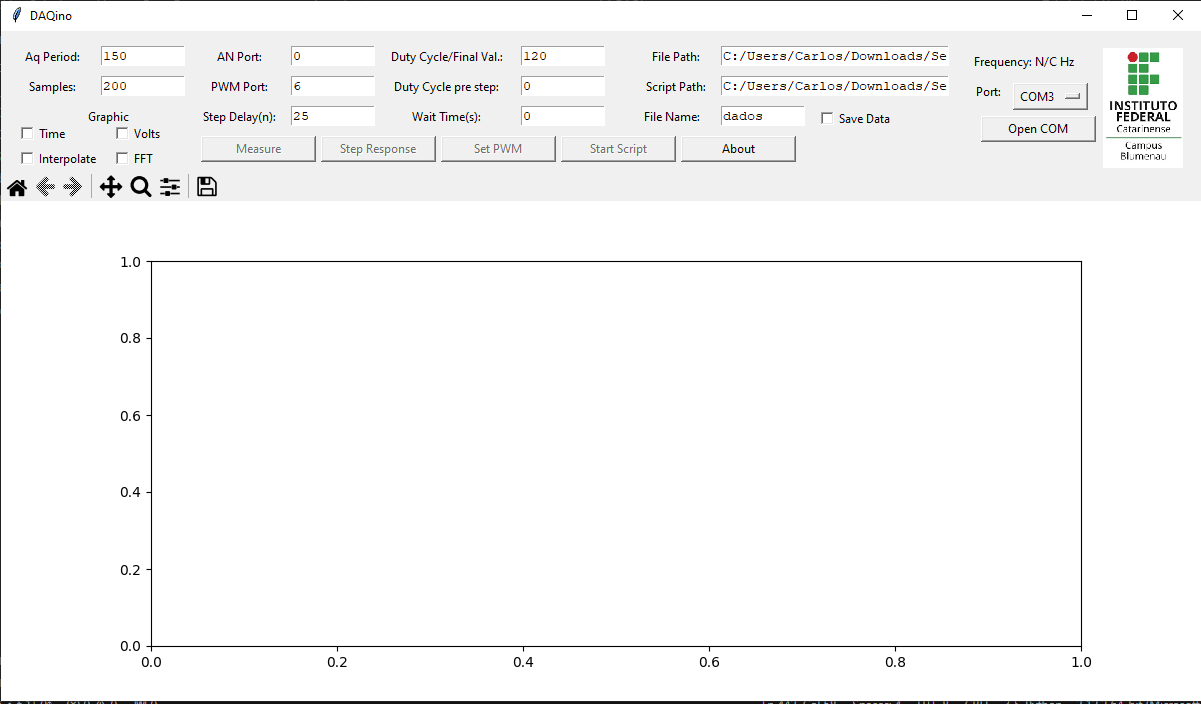
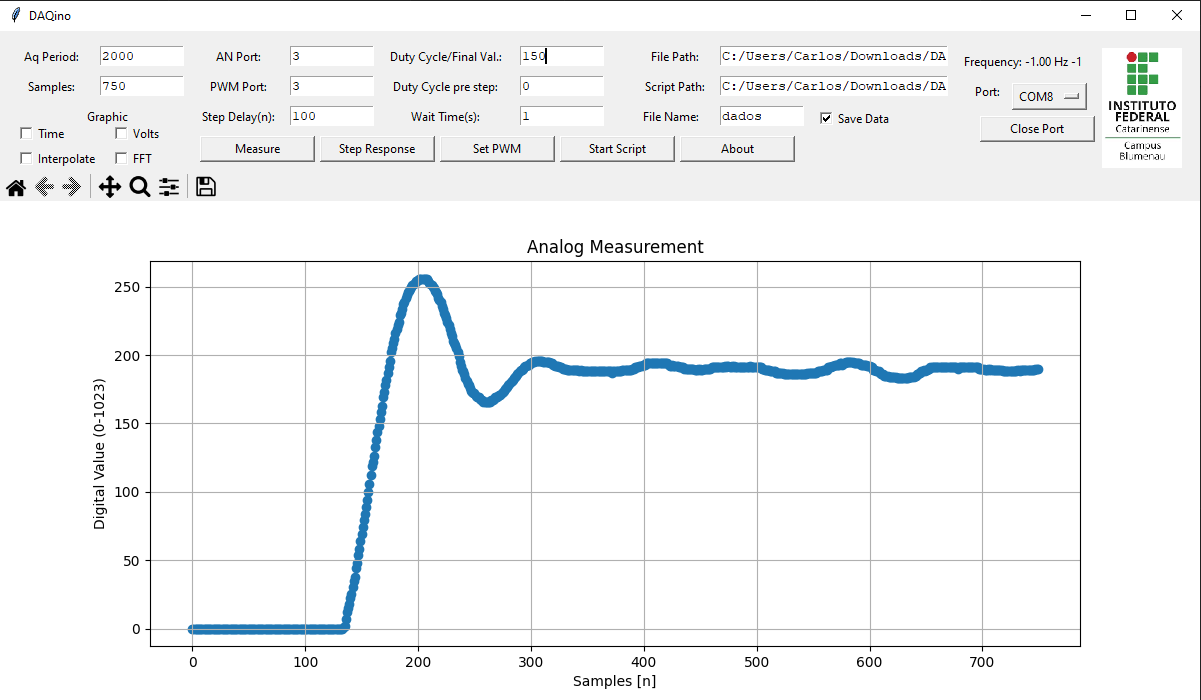
ajustes pós teste

diff --git a/main.py b/main.py
@@ -132,7 +132,7 @@ class arduinoDAQ():
         self.lbl_caminho_pasta.place(y = 15, x = 630)
 
         self.input_caminho_pasta = tk.Text(self.top_frame, width = 28, height = 1)
-        self.input_caminho_pasta.insert("1.0", 'C:/Users/Carlos/Downloads/SerialPythonArduino/Dados')
+        self.input_caminho_pasta.insert("1.0", 'C:/Users/Carlos/Downloads/DAQino/Dados')
         self.input_caminho_pasta.place(y = 15, x = 720)
 
         #Texto Caminho do script
@@ -141,7 +141,7 @@ class arduinoDAQ():
         self.lbl_caminho_script.place(y = 45, x = 630)
 
         self.input_caminho_script = tk.Text(self.top_frame, width = 28, height = 1)
-        self.input_caminho_script.insert("1.0", 'C:/Users/Carlos/Downloads/SerialPythonArduino/Script/script.csv')
+        self.input_caminho_script.insert("1.0", 'C:/Users/Carlos/Downloads/DAQino/Script/script.csv')
         self.input_caminho_script.place(y = 45, x = 720)
 
 ########### CHECLBOX (entrada 1/0)
@@ -261,7 +261,7 @@ class arduinoDAQ():
     def salvar_dados(self, tipo, razao_ciclica_inicial, razao_ciclica_final, complemento):
         ##Salva os dados
         if (self.var_salvar.get() == 1):
-            nome_arquivo = self.input_caminho_pasta.get("1.0",'end-1c') + "/" + self.input_nome_arquivo.get("1.0",'end-1c') + "_" + complemento + ".txt"
+            nome_arquivo = self.input_caminho_pasta.get("1.0",'end-1c') + "/" + self.input_nome_arquivo.get("1.0",'end-1c') + "_" + str(complemento) + ".txt"
             arquivo = open(nome_arquivo, "w")
             arquivo.write(self.input_periodo.get("1.0",END))
             arquivo.write(self.input_num_amostras.get("1.0",END))
@@ -316,8 +316,7 @@ class arduinoDAQ():
             self.daq.configRazaoCiclicaPWM(int(self.input_razao_ciclica_pre_degrau.get("1.0",END)))
             time.sleep(int(self.input_tempo_pre_degrau.get("1.0",END)))
     
-            self.amostras_lista = self.daq.respostaDegrau(self.num_amostras)
-            self.daq.configRazaoCiclicaPWM(0)
+            self.amostras_lista = self.daq.respostaDegrau(self.num_amostras)         
             self.amostras_volt_lista = self.daq.amostrasVolt()
                 
             self.salvar_dados('D', self.input_razao_ciclica_pre_degrau.get("1.0",'end-1c'), self.input_razao_ciclica.get("1.0",'end-1c'), self.complemento_nome_arquivo)

diff --git a/daq.py b/daq.py
@@ -72,6 +72,8 @@ class DAQ:
                 elif (idx == 512):
                     self.comport.write(bytearray([5,2]))
                     self.lerResposta()
+                    
+                
 
                 if ((idx >= 0) and (idx <= 255)):
                     self.comport.write(bytearray([4,idx]))
@@ -121,6 +123,7 @@ class DAQ:
             self.lerResposta()
             self.comport.write(bytearray([9,numero_de_amostras - 512]))
         self.lerResposta()
+        self.configRazaoCiclicaPWM(0)
         self.amostras_lista = self.lerListaAmostras(numero_de_amostras)
         return self.amostras_lista
     
